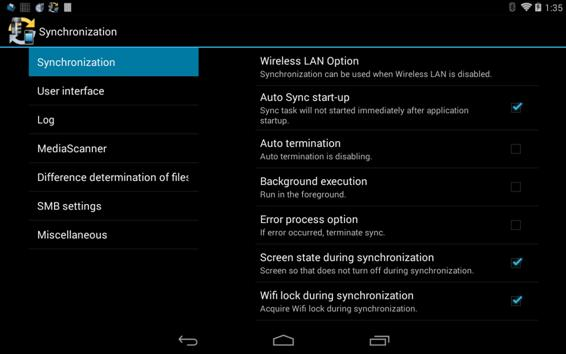
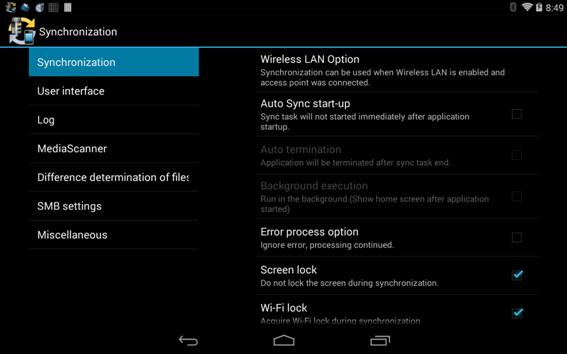
設定オプションの表記を単純化

diff --git a/assets/SMBSync_Desc_EN.htm b/assets/SMBSync_Desc_EN.htm
@@ -1073,7 +1073,7 @@ context menu.</span></a></p>
 <p class=318pt><a name="_Toc389710502"><span lang=EN-US>2.4.1 </span></a><span
 lang=EN-US>General</span></p>
 
-<p class=MsoNormal><span lang=EN-US><img border=0 width=567 height=354 id="図 4"
+<p class=MsoNormal><span lang=EN-US><img border=0 width=567 height=354
 src="SMBSync_Desc_EN.files/image009.jpg"></span></p>
 
 <p class=MsoListBullet2 style='margin-left:42.0pt;text-indent:-21.0pt'><span
@@ -1986,7 +1986,7 @@ lang=EN-US style='font-family:"Arial","sans-serif"'><span style='text-decoration
 lang=EN-US>Synchronization</span></p>
 
 <p class=MsoListBullet style='margin-left:0mm;text-indent:0mm'><span
-lang=EN-US><img border=0 width=566 height=354 id="図 19"
+lang=EN-US><img border=0 width=567 height=354 id="図 4"
 src="SMBSync_Desc_EN.files/image023.jpg"></span></p>
 
 <p class=MsoListBullet style='margin-left:21.0pt;text-indent:-21.0pt'><span
@@ -2055,10 +2055,18 @@ lang=EN-US>Ignore errors that occur during synchronization.</span></p>
 <p class=MsoListBullet style='margin-left:21.0pt;text-indent:-21.0pt'><span
 lang=EN-US style='font-family:Symbol'><img width=11 height=11
 src="SMBSync_Desc_EN.files/image001.png" alt="*"><span style='font:7.0pt "Times New Roman"'>&nbsp;&nbsp;&nbsp;&nbsp;&nbsp;&nbsp;&nbsp;
-</span></span><span lang=EN-US>Screen state during synchronization</span></p>
+</span></span><span lang=EN-US>Screen lock</span></p>
 
-<p class=MsoBodyText style='text-indent:21.0pt'><span lang=EN-US>Enable/Disable
-keep screen on. </span></p>
+<p class=MsoBodyText style='text-indent:21.0pt'><span lang=EN-US>If checked, do
+not lock the screen during synchronization.</span></p>
+
+<p class=MsoListBullet style='margin-left:21.0pt;text-indent:-21.0pt'><span
+lang=EN-US style='font-family:Symbol'><img width=11 height=11
+src="SMBSync_Desc_EN.files/image001.png" alt="*"><span style='font:7.0pt "Times New Roman"'>&nbsp;&nbsp;&nbsp;&nbsp;&nbsp;&nbsp;&nbsp;
+</span></span><span lang=EN-US>Wi-Fi lock</span></p>
+
+<p class=MsoBodyText style='text-indent:21.0pt'><span lang=EN-US>If checked, acquire
+Wi-Fi lock during synchronization.</span></p>
 
 <p class=MsoListBullet style='margin-left:21.0pt;text-indent:-21.0pt'><span
 lang=EN-US style='font-family:Symbol'><img width=11 height=11
@@ -2463,8 +2471,7 @@ style='font-size:10.0pt'>&nbsp;</span></p>
 style='font-size:10.0pt'>PackageManager pm = getPackageManager();</span></p>
 
 <p class=MsoNormal style='text-indent:20.0pt'><span lang=EN-US
-style='font-size:10.0pt'>Intent
-in=pm.getLaunchIntentForPackage(&quot;com.sentaroh.android.SMBSync&quot;);</span></p>
+style='font-size:10.0pt'>Intent in=pm.getLaunchIntentForPackage(&quot;com.sentaroh.android.SMBSync&quot;);</span></p>
 
 <p class=MsoNormal style='text-indent:20.0pt'><span lang=EN-US
 style='font-size:10.0pt'>in.setAction(Intent.ACTION_MAIN);</span></p>
@@ -2519,8 +2526,7 @@ src="SMBSync_Desc_EN.files/image002.png" alt="*"><span style='font:7.0pt "Times 
 <p class=MsoListBullet2 style='margin-left:42.0pt;text-indent:-21.0pt'><span
 lang=EN-US style='font-family:Symbol'><img width=11 height=11
 src="SMBSync_Desc_EN.files/image002.png" alt="*"><span style='font:7.0pt "Times New Roman"'>&nbsp;&nbsp;&nbsp;&nbsp;&nbsp;&nbsp;&nbsp;&nbsp;
-</span></span><span lang=EN-US>Local to remote by
-mirror(S-SAMP-UPLOAD-WITH-FILTER)</span></p>
+</span></span><span lang=EN-US>Local to remote by mirror(S-SAMP-UPLOAD-WITH-FILTER)</span></p>
 
 <p class=MsoListBullet style='margin-left:21.0pt;text-indent:0mm'><span
 lang=EN-US>&nbsp;</span></p>

diff --git a/src/com/sentaroh/android/SMBSync/ProfileMaintenance.java b/src/com/sentaroh/android/SMBSync/ProfileMaintenance.java
@@ -80,7 +80,6 @@ import android.os.SystemClock;
 import android.preference.PreferenceManager;
 import android.text.Editable;
 import android.text.TextWatcher;
-import android.util.Log;
 import android.view.View;
 import android.view.View.OnClickListener;
 import android.view.Window;
